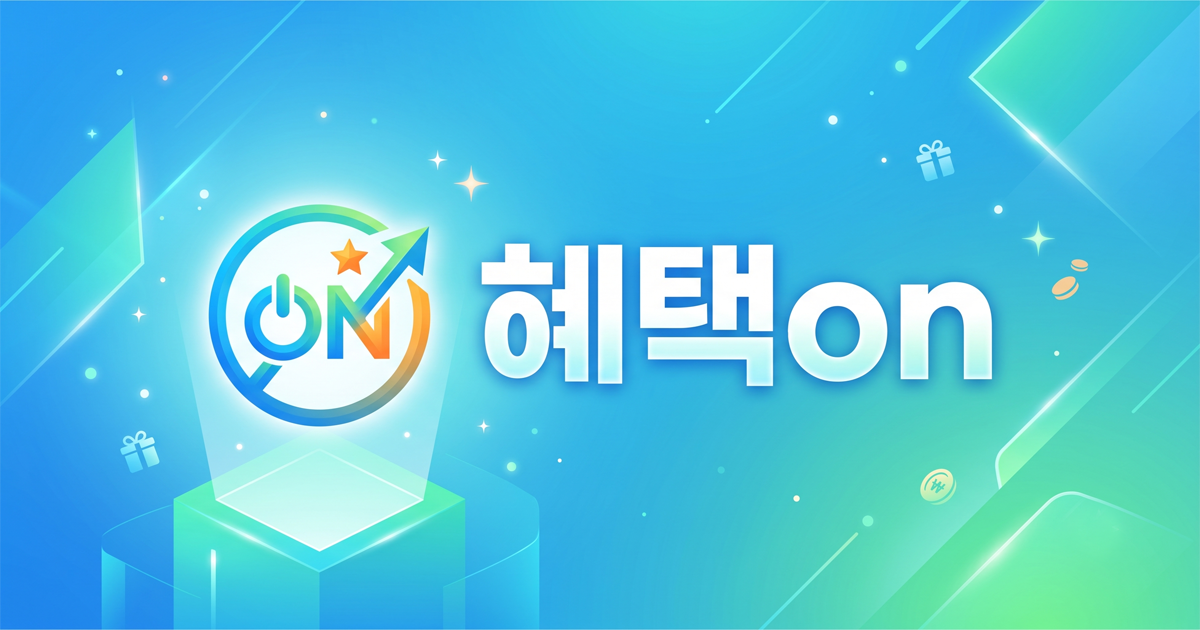
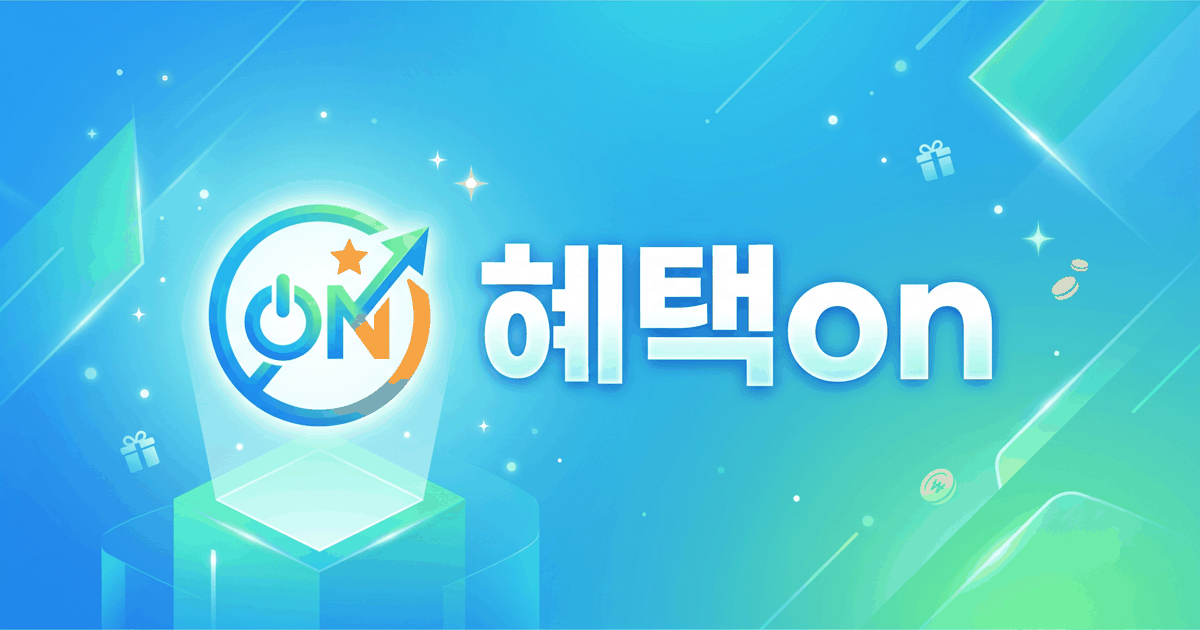
chore: 광고 placeholder 정리 후 남은 데드 CSS 제거, og-image 용량 축소
.ad-placeholder/.in-page-ad/.sidebar-ad/.ad-slot-placeholder는 실제
광고 단위로 교체되며 더 이상 어떤 HTML에서도 쓰이지 않아 삭제.
og-image.png는 819KB로 소셜 미리보기용 치고 과도하게 커서 팔레트
양자화로 217KB로 축소 (해상도·시각 품질 변화 없음).

diff --git a/style.css b/style.css
@@ -1318,20 +1318,6 @@ h1, h2, h3,
 
 .ad-wrap { padding: 12px 24px; }
 
-.ad-placeholder {
-  background: var(--bg-soft);
-  border: 1px dashed #CBD5E0;
-  border-radius: var(--radius-sm);
-  height: 90px;
-  display: flex;
-  align-items: center;
-  justify-content: center;
-  font-size: 13px;
-  color: var(--text-muted);
-  max-width: 728px;
-  margin: 0 auto;
-}
-
 /* ===========================
    PAGE SECTION
    =========================== */

diff --git a/pages/pages.css b/pages/pages.css
@@ -22,7 +22,7 @@
 .articles-main { padding: 40px 0 80px; }
 .articles-main .inner-wrap { display: grid; grid-template-columns: repeat(3, 1fr); gap: 20px; align-items: stretch; }
 .articles-main-grid { display: contents; }
-.articles-main .in-page-ad, .articles-main .pagination { grid-column: 1 / -1; }
+.articles-main .pagination { grid-column: 1 / -1; }
 .art-card-lg { background: #fff; border: 1px solid var(--border); border-radius: var(--radius-md); overflow: hidden; display: flex; flex-direction: column; transition: all .2s; text-decoration: none; color: inherit; }
 .art-card-lg:hover { transform: translateY(-4px); box-shadow: var(--shadow-md); border-color: rgba(46,117,182,.3); }
 .art-card-thumb { height: 160px; background: var(--bg-soft); display: flex; align-items: center; justify-content: center; font-size: 3rem; }
@@ -36,9 +36,6 @@
 .art-card-title { font-size: 0.95rem; font-weight: 700; color: var(--text-primary); line-height: 1.45; margin-bottom: auto; padding-bottom: 12px; }
 .art-card-meta  { display: flex; align-items: center; gap: 8px; font-size: 0.78rem; color: var(--text-muted); border-top: 1px solid var(--border); padding-top: 10px; margin-top: auto; }
 .art-card-views { margin-left: auto; }
-
-/* 페이지 중간 광고 */
-.in-page-ad { background: var(--bg-soft); border: 1px dashed var(--border); border-radius: 8px; text-align: center; padding: 28px; font-size: 0.82rem; color: var(--text-muted); margin: 24px 0; }
 
 /* 페이지네이션 */
 .pagination { display: flex; justify-content: center; gap: 6px; margin-top: 32px; }
@@ -82,7 +79,6 @@
 .sidebar-related a { display: block; font-size: 0.875rem; color: var(--text-primary); text-decoration: none; padding: 8px 0; border-bottom: 1px solid var(--border); line-height: 1.4; }
 .sidebar-related a:last-child { border-bottom: none; }
 .sidebar-related a:hover { color: var(--primary); }
-.sidebar-ad { background: var(--bg-soft); border: 1px dashed var(--border); text-align: center; padding: 48px 16px; border-radius: var(--radius-md); font-size: 0.78rem; color: var(--text-muted); }
 
 /* 브레드크럼 */
 .breadcrumb-bar { padding: 14px 0; font-size: 0.82rem; color: var(--text-muted); }
@@ -137,11 +133,6 @@
 /* ── 상단 광고 영역 (카테고리 페이지 공용) ── */
 .ad-slot { margin: 24px auto 0; text-align: center; overflow: hidden; }
 .ad-slot .adsbygoogle { display: block; }
-.ad-slot-placeholder {
-  display: flex; align-items: center; justify-content: center;
-  min-height: 90px; border: 1px dashed var(--border); border-radius: var(--radius-md);
-  background: var(--bg-soft); color: var(--text-muted); font-size: 0.82rem;
-}
 
 /* ── 정부지원금 목록 (카테고리 페이지 공용) ── */
 .pl-main { padding: 8px 0 80px; }